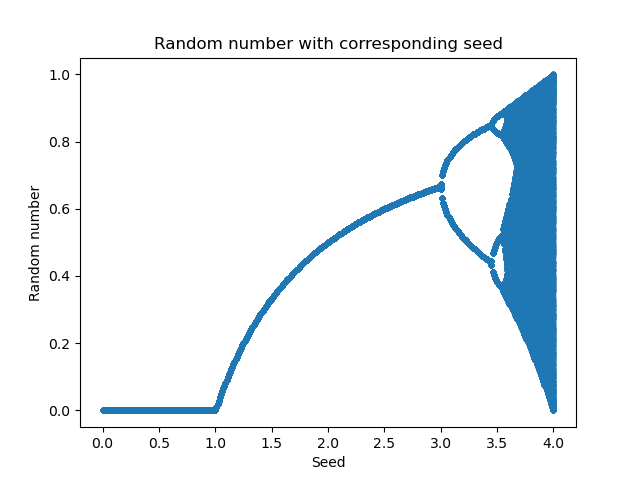
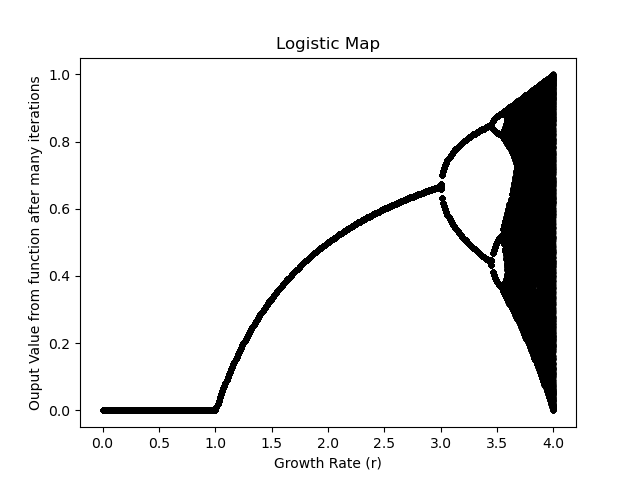
Correct Image header

diff --git a/rando.py b/rando.py
@@ -43,14 +43,14 @@ def plotFunc(r):
 def plotRando(x):
 	
 	eff = 100
-	for i in range(-10*eff,10*eff):
+	for i in range(0*eff,10*eff):
 		rando(x,i/eff)
 	
 	plt.plot(growthRate,randNum,'.',color='black') 
   
-	plt.ylabel('Random number')  
-	plt.xlabel('Seed')  
-	plt.title('Random number with corresponding seed') 
+	plt.ylabel('Ouput Value from function after many iterations')  
+	plt.xlabel('Growth Rate (r)')  
+	plt.title('Logistic Map') 
   
 	plt.show() 	
 

diff --git a/README.md b/README.md
@@ -11,4 +11,4 @@ Implementation of Logistics map in python and c++
 ## Chaos Game
 Method to check if a sequence of numbers is random or not.
 
-![Chaos Game](/Images/Chaos_Game.png)
+![Chaos Game](/Images/chaos_game.png)
